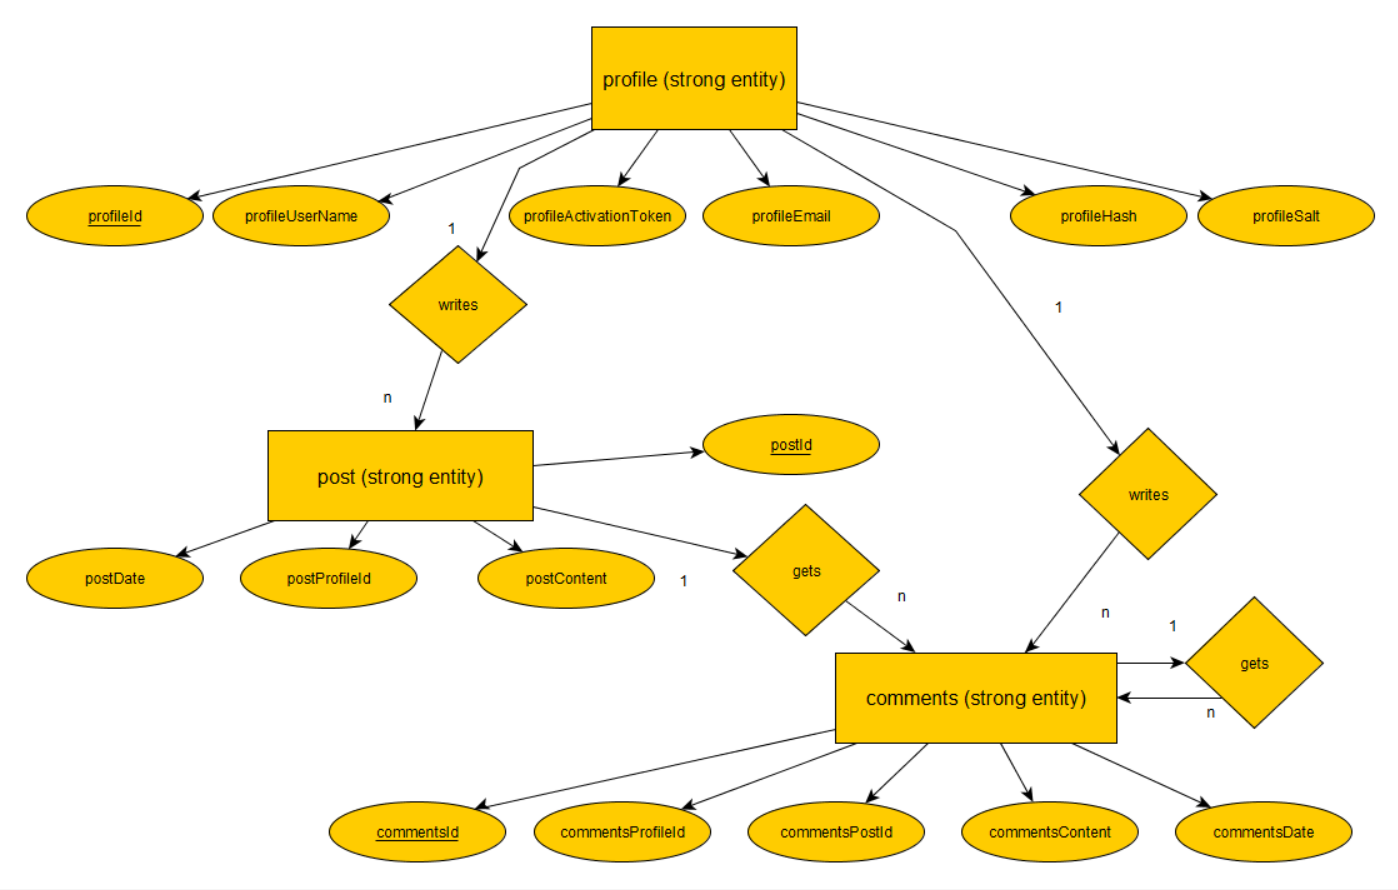
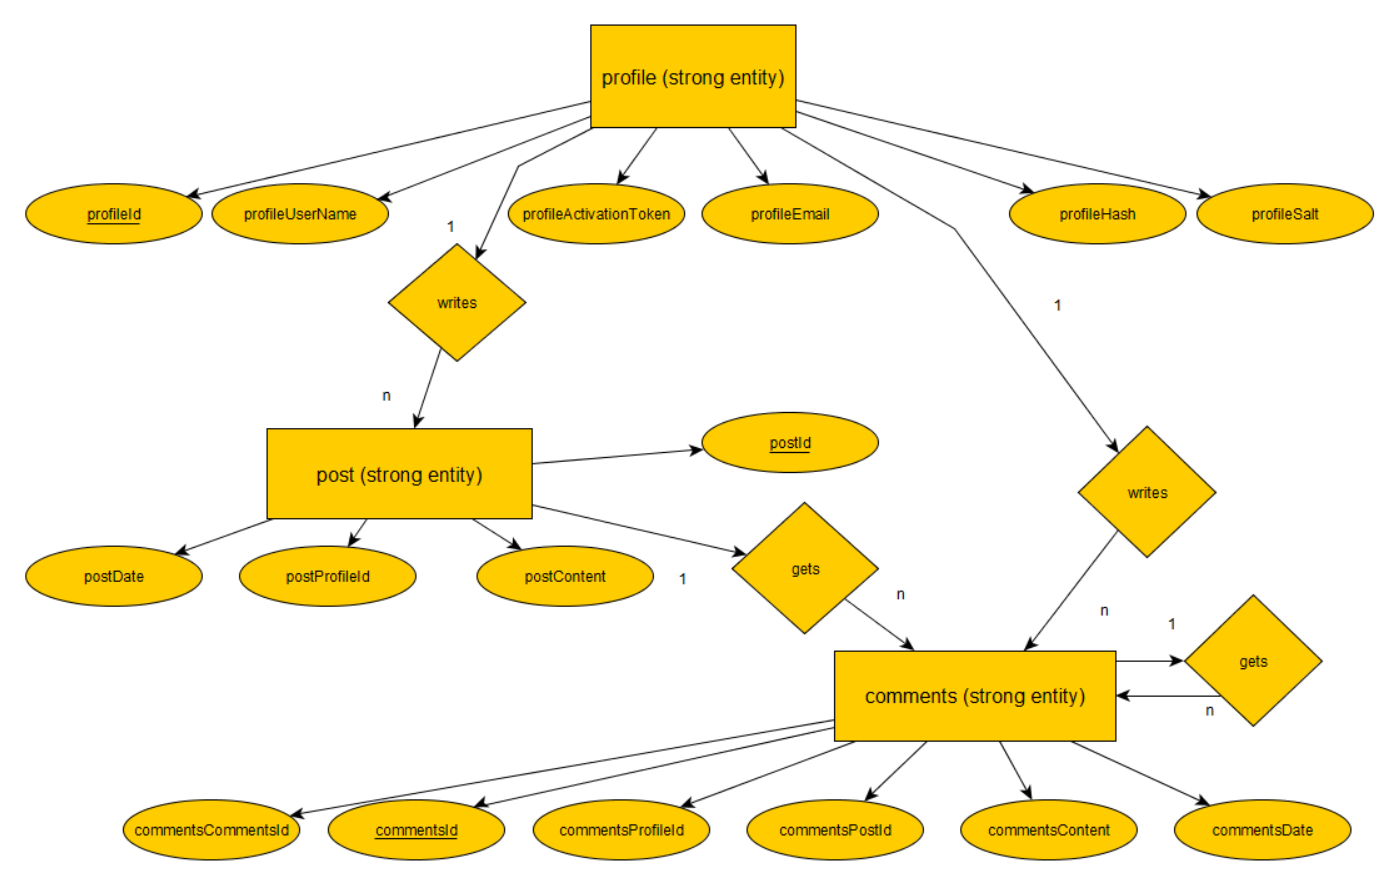
Added commentsCommentsId recursive foreign key to erd, reddit.sql, and index.php

diff --git a/index.php b/index.php
@@ -85,6 +85,7 @@
 					<li>commentsId</li>
 					<li>commentsProfileId (foreign key)</li>
 					<li>commentsPostId (foreign key)</li>
+					<li>commentsCommentsId (foreign key)</li>
 					<li>commentsContent</li>
 					<li>commentsDate</li>
 				</ul>
